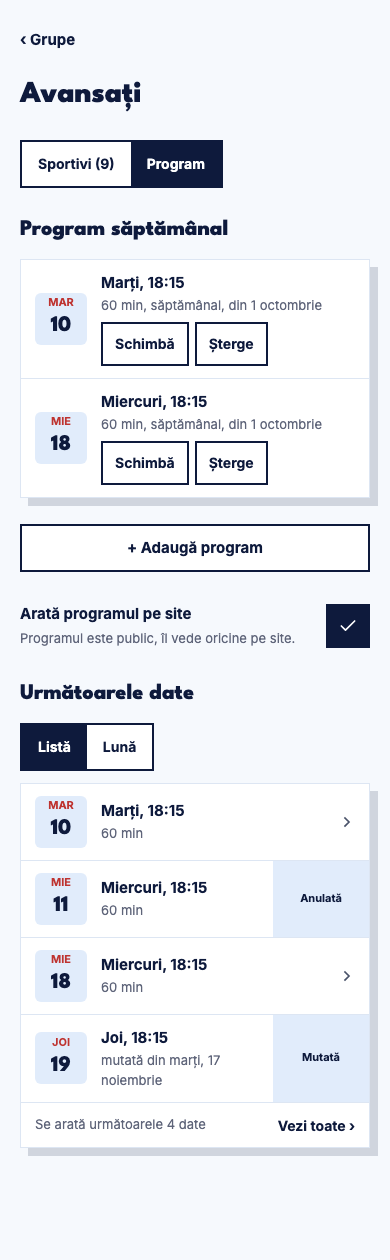
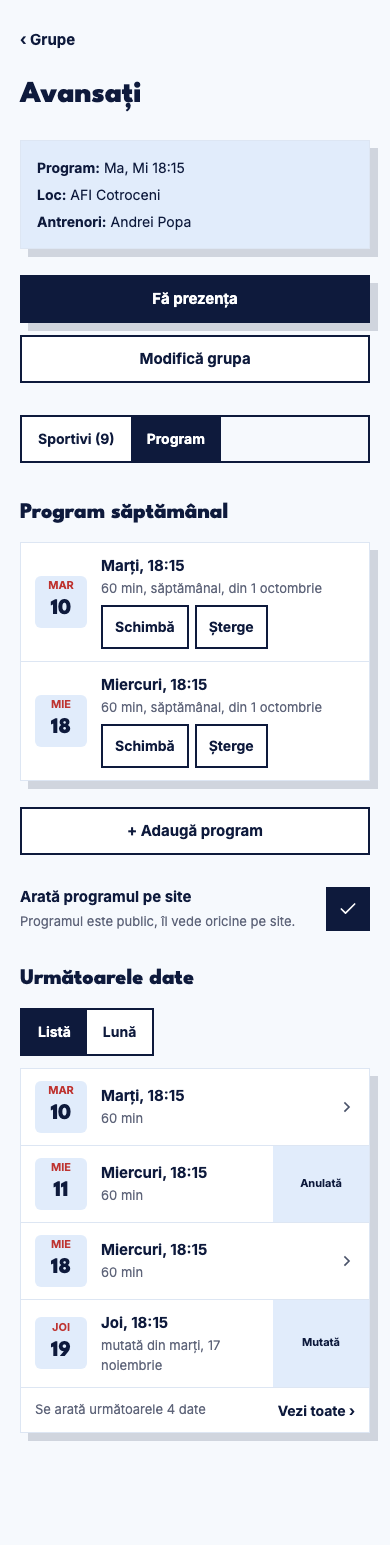
Phone: compact sticky top bar on coach pages; Grupă tabs stick under it and both tabs share one layout

Changed region(s): [[0.0308, 0.0, 0.9846, 0.9595], [0.7077, 0.5881, 0.7385, 0.619]]

diff --git a/tests/e2e/portal-phone-bar.spec.ts b/tests/e2e/portal-phone-bar.spec.ts
@@ -1,0 +1,73 @@
+import { expect, test } from "@playwright/test";
+import { COACH_BASE, loginAs, mockReset } from "./portal-helpers";
+
+test.use({ baseURL: COACH_BASE, viewport: { width: 390, height: 844 }, timezoneId: "Europe/Bucharest" });
+test.beforeEach(async() => { await mockReset(); });
+
+const bar = (page: import("@playwright/test").Page) => page.locator("[data-phone-bar]");
+
+test("phone: the compact bar shows with the back link and title once the big title scrolled away", async({ page }) => {
+  await loginAs(page);
+  await page.goto("/grupe/gavansati");
+  await expect(page.getByRole("heading", { level: 1, name: "Avansați" })).toBeVisible();
+  await expect(bar(page)).toHaveCSS("opacity", "0");
+  await page.evaluate(() => window.scrollTo(0, 400));
+  await expect(bar(page)).toHaveCSS("opacity", "1");
+  const box = (await bar(page).boundingBox())!;
+  expect(Math.round(box.y)).toBe(0);
+  await expect(bar(page).getByRole("link", { name: "‹ Grupe" })).toHaveAttribute("href", "/grupe");
+  const title = bar(page).locator("[data-phone-bar-title]");
+  await expect(title).toHaveText("Avansați");
+  await expect(title).toHaveCSS("font-size", "16px");
+  await expect(title).toHaveCSS("font-weight", "700");
+  await expect(bar(page)).toHaveCSS("background-color", "rgb(225, 236, 251)");
+  await page.evaluate(() => window.scrollTo(0, 0));
+  await expect(bar(page)).toHaveCSS("opacity", "0");
+  await page.evaluate(() => window.scrollTo(0, 400));
+  await page.screenshot({ path: process.env.PORTAL_SHOTS ? `${process.env.PORTAL_SHOTS}/built-phone-bar-390.png` : test.info().outputPath("bar-390.png") });
+});
+
+test("phone: Azi shows the brand in the bar instead of a back link", async({ page }) => {
+  await page.setViewportSize({ width: 390, height: 520 });
+  await loginAs(page);
+  await page.goto("/");
+  await expect(page.getByRole("heading", { name: "Antrenamente azi" })).toBeVisible();
+  await page.evaluate(() => window.scrollTo(0, 600));
+  await expect(bar(page)).toHaveCSS("opacity", "1");
+  await expect(bar(page).getByRole("link", { name: "Clubul Sportiv EduSport" })).toBeVisible();
+  await expect(bar(page).getByText("‹")).toHaveCount(0);
+  await expect(bar(page).locator("[data-phone-bar-title]")).toHaveText("Azi");
+});
+
+test("phone: the tabs stay under the bar while scrolled and sit at the same y on both tabs", async({ page }) => {
+  await loginAs(page);
+  await page.goto("/grupe/gavansati");
+  const tabs = page.locator("[data-group-tabs]");
+  const y1 = (await tabs.boundingBox())!.y;
+  await page.getByRole("button", { name: "Program" }).click();
+  await expect(page).toHaveURL(/tab=program/);
+  await expect(page.getByRole("heading", { name: "Program săptămânal" })).toBeVisible();
+  const y2 = (await tabs.boundingBox())!.y;
+  expect(Math.abs(y1 - y2)).toBeLessThan(1);
+  // Same block above the tabs on both tabs.
+  await expect(page.getByText(/^Antrenori/).first()).toBeVisible();
+  await expect(page.getByRole("link", { name: "Modifică grupa" })).toBeVisible();
+  await page.evaluate(() => window.scrollTo(0, 500));
+  await expect(bar(page)).toHaveCSS("opacity", "1");
+  const stuck = (await tabs.boundingBox())!;
+  expect(Math.round(stuck.y)).toBe(44);
+  await page.screenshot({ path: process.env.PORTAL_SHOTS ? `${process.env.PORTAL_SHOTS}/built-grupa-tabs-sticky-390.png` : test.info().outputPath("tabs-390.png") });
+});
+
+test("desktop: no compact bar, same two column group page on both tabs", async({ page }) => {
+  await page.setViewportSize({ width: 1280, height: 900 });
+  await loginAs(page);
+  await page.goto("/grupe/gavansati");
+  await expect(bar(page)).toBeHidden();
+  const a = (await page.locator("[data-group-tabs]").boundingBox())!;
+  await page.getByRole("button", { name: /^Program$/ }).click();
+  await expect(page.getByRole("heading", { name: "Program săptămânal" })).toBeVisible();
+  const b = (await page.locator("[data-group-tabs]").boundingBox())!;
+  expect(Math.abs(a.y - b.y)).toBeLessThan(1);
+  expect(Math.abs(a.x - b.x)).toBeLessThan(1);
+});

diff --git a/src/app/(antrenor)/antrenor/(app)/grupe/[id]/GroupView.tsx b/src/app/(antrenor)/antrenor/(app)/grupe/[id]/GroupView.tsx
@@ -59,34 +59,23 @@ function OwnGroup({ page }: { page: Extract<CoachGroupPage, { own: true }> }) {
   const members = page.members;
   const presence = page.todayKey ? `/prezenta?occurrence=${encodeURIComponent(page.todayKey)}&from=grupa` : null;
   const setTab = (t: Tab) => router.replace(t === "program" ? `${pathname}?tab=program` : pathname, { scroll: false });
+  // One page for both tabs: the info card and the buttons above, then the tabs, then only the tab body changes (no layout jump). On a phone the tabs stick under the compact top bar.
   const tabs = (
-    <Segmented<Tab>
-      label={GROUP.members}
-      options={[{ value: "members", label: GROUP.tabAthletes(members.length) }, { value: "program", label: GROUP.tabProgram }]}
-      value={tab}
-      onChange={setTab}
-    />
+    <div data-group-tabs className="sticky top-(--portal-tap) z-raised -mx-(--portal-page-x) bg-surface px-(--portal-page-x) py-2 portal:static portal:mx-0 portal:p-0">
+      <Segmented<Tab>
+        label={GROUP.members}
+        options={[{ value: "members", label: GROUP.tabAthletes(members.length) }, { value: "program", label: GROUP.tabProgram }]}
+        value={tab}
+        onChange={setTab}
+      />
+    </div>
   );
-  if (tab === "program") {
-    return (
-      <>
-        <PageHeader
-          back={BACK}
-          title={page.name}
-          actions={page.kind === "club" ? <Button variant="secondary" href={`${pathname}?tab=program&nou=1`}>{PROGRAM.add}</Button> : undefined}
-        />
-        <PageBody>
-          <ProgramTab key={rev} groupId={page.groupId} own tabs={tabs} addHref={`${pathname}?tab=program&nou=1`} />
-        </PageBody>
-        {params.get("nou") && page.kind === "club" && (
-          <NewTrainingPopup group={page.groupId} individual={false} onClose={() => router.replace(`${pathname}?tab=program`)} onDone={() => setRev((n) => n + 1)} />
-        )}
-      </>
-    );
-  }
+  const actions = tab === "program"
+    ? page.kind === "club" ? <Button variant="secondary" href={`${pathname}?tab=program&nou=1`}>{PROGRAM.add}</Button> : undefined
+    : presence ? <Button variant="secondary" href={presence}>{GROUP.doPresence}</Button> : undefined;
   return (
     <>
-      <PageHeader back={BACK} title={page.name} actions={presence ? <Button variant="secondary" href={presence}>{GROUP.doPresence}</Button> : undefined} />
+      <PageHeader back={BACK} title={page.name} actions={actions} />
       <PageBody>
         <Columns>
           <Column grow={1}>
@@ -98,19 +87,26 @@ function OwnGroup({ page }: { page: Extract<CoachGroupPage, { own: true }> }) {
           </Column>
           <Column grow={2}>
             {tabs}
-            <ListCard>
-              {members.map((m) => (
-                <ListRow
-                  key={m.athleteId}
-                  href={`/sportiv/${encodeURIComponent(m.athleteId)}?grupa=${encodeURIComponent(page.groupId)}`}
-                  title={m.name}
-                  sub={memberSub(m)}
-                />
-              ))}
-            </ListCard>
+            {tab === "program" ? (
+              <ProgramTab key={rev} groupId={page.groupId} own addHref={`${pathname}?tab=program&nou=1`} />
+            ) : (
+              <ListCard>
+                {members.map((m) => (
+                  <ListRow
+                    key={m.athleteId}
+                    href={`/sportiv/${encodeURIComponent(m.athleteId)}?grupa=${encodeURIComponent(page.groupId)}`}
+                    title={m.name}
+                    sub={memberSub(m)}
+                  />
+                ))}
+              </ListCard>
+            )}
           </Column>
         </Columns>
       </PageBody>
+      {tab === "program" && params.get("nou") && page.kind === "club" && (
+        <NewTrainingPopup group={page.groupId} individual={false} onClose={() => router.replace(`${pathname}?tab=program`)} onDone={() => setRev((n) => n + 1)} />
+      )}
     </>
   );
 }

diff --git a/src/app/(antrenor)/antrenor/(app)/grupe/[id]/_program/ProgramTab.tsx b/src/app/(antrenor)/antrenor/(app)/grupe/[id]/_program/ProgramTab.tsx
@@ -12,7 +12,6 @@ import { bucharestToday } from "../../../../_lib/today";
 import { useNoAccess, usePortal } from "../../../../_lib/use-portal";
 import { LoadError } from "@/app/_portal/ui/LoadError";
 import Link from "@/components/ui/link";
-import { Column, Columns } from "@/app/_portal/ui/PageBody";
 import { ListCard } from "@/app/_portal/ui/PortalCard";
 import { Section } from "@/app/_portal/ui/SectionHeading";
 import { Segmented } from "@/app/_portal/ui/Segmented";
@@ -38,8 +37,6 @@ const byStart = (a: Occurrence, b: Occurrence): number => `${a.date}${a.startTim
 type ProgramTabProps = {
   groupId: string;
   own: boolean;
-  /** The "Sportivi" / "Program" switch the group page owns; the tab places it at the top of its first column. */
-  tabs: React.ReactNode;
   /** Opens the "Antrenament nou" popup with this group preset. */
   addHref: string;
 };
@@ -48,7 +45,7 @@ type ProgramTabProps = {
 const NEXT_DATES = 4;
 
 /** The Program tab: weekly rules, "+ Adaugă program", the public switch, and the next dates as a list or a month. */
-export function ProgramTab({ groupId, own, tabs, addHref }: ProgramTabProps) {
+export function ProgramTab({ groupId, own, addHref }: ProgramTabProps) {
   const today = bucharestToday();
   const toast = useToast();
   const noAccess = useNoAccess();
@@ -116,9 +113,8 @@ export function ProgramTab({ groupId, own, tabs, addHref }: ProgramTabProps) {
 
   return (
     <>
-      <Columns>
-        <Column grow={1}>
-          {tabs}
+      <div className="flex flex-col gap-(--portal-section-gap)">
+        <div className="flex flex-col gap-(--portal-section-gap)">
           {data === null ? spinner : (
             <>
               {data.kind === "school" && <p className="text-body-sm text-secondary">{PROGRAM.schoolLocked}</p>}
@@ -133,14 +129,14 @@ export function ProgramTab({ groupId, own, tabs, addHref }: ProgramTabProps) {
               {own && data.kind === "club" && data.programPublic !== null && <PublicSwitch value={data.programPublic} busy={busy} onChange={(v) => void setPublic(v)} />}
             </>
           )}
-        </Column>
-        <Column grow={1}>
+        </div>
+        <div className="flex flex-col gap-(--portal-section-gap)">
           <Section title={PROGRAM.nextHeading}>
             <Segmented<View> label={GROUP.tabProgram} options={[{ value: "list", label: PROGRAM.list }, { value: "month", label: PROGRAM.month }]} value={view} onChange={setView} />
             {datesBody}
           </Section>
-        </Column>
-      </Columns>
+        </div>
+      </div>
       {open?.kind === "change" && <ChangeSheet rule={open.rule} rules={data?.rules ?? []} today={today} onClose={() => setOpen(null)} onDone={done} />}
       {open?.kind === "end" && <EndSheet rule={open.rule} rules={data?.rules ?? []} today={today} onClose={() => setOpen(null)} onDone={done} />}
       {open?.kind === "date" && <DateSheet occurrence={open.occurrence} today={today} onClose={() => setOpen(null)} onDone={done} />}

diff --git a/src/app/_portal/ui/PhoneBar.tsx b/src/app/_portal/ui/PhoneBar.tsx
@@ -1,0 +1,46 @@
+"use client";
+
+import { useEffect, useState } from "react";
+import { BrandBlock } from "@/app/_portal/ui/BrandBlock";
+import Link from "@/components/ui/link";
+import { cn } from "@/utils/cn";
+
+/**
+ * Phone only: a compact bar stuck to the top once the big page title has scrolled out of view.
+ * Back link (or the brand on the brand pages) on the left, the title in the middle. It is a zero height sticky box,
+ * so it takes no room while hidden; from the desktop breakpoint the page header is already sticky and this bar is gone.
+ */
+export function PhoneBar({ title, back, brand }: { title: string; back?: { href: string; label: string }; brand?: boolean }) {
+  const [shown, setShown] = useState(false);
+  useEffect(() => {
+    const h1 = document.querySelector("[data-page-header] h1");
+    if (!h1) return;
+    const io = new IntersectionObserver(([e]) => setShown(!e.isIntersecting && e.boundingClientRect.top < 0));
+    io.observe(h1);
+    return () => io.disconnect();
+  }, [title]);
+  return (
+    <div data-phone-bar-box className="sticky top-0 z-sticky h-0 portal:hidden">
+      <div
+        data-phone-bar
+        aria-hidden={!shown}
+        {...(shown ? {} : { inert: true })}
+        className={cn(
+          "absolute inset-x-0 top-0 flex h-(--portal-tap) items-center gap-3 border-b border-line-subtle bg-ice-light px-(--portal-page-x) transition-opacity duration-fast",
+          shown ? "opacity-100" : "pointer-events-none opacity-0",
+        )}
+      >
+        <span className="flex max-w-[40%] shrink-0 justify-start">
+          {back ? (
+            <Link href={back.href} tone="plain" className="inline-flex min-h-(--portal-tap) items-center text-(length:--portal-text-15) font-bold text-primary no-underline">
+              ‹ {back.label}
+            </Link>
+          ) : brand ? (
+            <BrandBlock href="/" />
+          ) : null}
+        </span>
+        <span data-phone-bar-title className="min-w-0 flex-1 truncate text-(length:--portal-text-16) font-bold">{title}</span>
+      </div>
+    </div>
+  );
+}

diff --git a/tests/e2e/portal-program-read.spec.ts b/tests/e2e/portal-program-read.spec.ts
@@ -70,12 +70,10 @@ for (const size of SIZES) {
       if (wide) {
         const rule = (await page.getByRole("heading", { name: "Program săptămânal" }).boundingBox())!;
         const next = (await page.getByRole("heading", { name: "Următoarele date" }).boundingBox())!;
-        expect(next.x).toBeGreaterThan(rule.x);
-        // Fixed 3:2 grid: the weekly program column is wider than the dates column.
-        const mainW = (await page.getByRole("heading", { name: "Program săptămânal" }).locator("xpath=../..").boundingBox())!.width;
-        const sideW = (await dates.boundingBox())!.width;
-        expect(Math.round((mainW / sideW) * 10)).toBeGreaterThanOrEqual(13);
-        expect(Math.round((mainW / sideW) * 10)).toBeLessThanOrEqual(17);
+        // One page for both tabs (user 2026-11-10): the program stacks in the main column, the next dates below the weekly rules.
+        expect(next.y).toBeGreaterThan(rule.y);
+        const infoCard = (await page.getByText(/^Antrenori/).first().boundingBox())!;
+        expect(infoCard.x).toBeGreaterThan(rule.x);
       }
       await shot(page, info, "grupa-program");
     });

diff --git a/src/app/_portal/ui/PageHeader.tsx b/src/app/_portal/ui/PageHeader.tsx
@@ -1,5 +1,6 @@
 import Link from "@/components/ui/link";
 import { BrandBlock } from "@/app/_portal/ui/BrandBlock";
+import { PhoneBar } from "@/app/_portal/ui/PhoneBar";
 
 type PageHeaderProps = {
   title: string;
@@ -17,6 +18,8 @@ type PageHeaderProps = {
  */
 export function PageHeader({ title, back, kicker, sub, brand, aside, actions }: PageHeaderProps) {
   return (
+    <>
+    <PhoneBar title={title} back={back} brand={brand} />
     <header data-page-header className="portal:sticky portal:top-0 portal:z-sticky portal:border-b portal:border-line-subtle portal:bg-ice-light">
       <div className="mx-auto flex w-full max-w-(--portal-container) flex-col gap-(--portal-head-gap) px-(--portal-page-x) pt-(--portal-head-pt) pb-(--portal-head-pb) portal:gap-2 portal:py-(--portal-band-pad-y)">
         {back ? (
@@ -50,5 +53,6 @@ export function PageHeader({ title, back, kicker, sub, brand, aside, actions }: 
         </div>
       </div>
     </header>
+    </>
   );
 }

diff --git a/docs/portal/DECISIONS.md b/docs/portal/DECISIONS.md
@@ -308,3 +308,5 @@ Companion screens: `edusport_backend/.superpowers/brainstorm/43332-1790846771/co
 - 2026-11-10 (user): Azi desktop puts the dark summary card and 'Antrenamente fără prezență' in the left column (2 parts) and today's list on the right (3 parts); header actions take the height of the now tile.
 - 2026-11-10 (user): a class held without saved attendance is called 'prezență necompletată': Azi section 'Prezență de completat', week row 'Prezență necompletată: <n>', row sub lines and Istoric use the same words. Azi desktop left column approved: summary card, 'Următorul antrenament', 'Săptămâna aceasta', 'Prezență de completat'.
 - 2026-11-10 (user): every list that can grow is capped. Azi lists show at most 5 rows, then "Vezi toate (n) ›" ("Prezență de completat" opens Istoric, "Antrenamente azi" opens the Calendar on today). Istoric and Concursuri show 20 rows, then a secondary button "Arată mai multe" that adds 20 more (client side, keyboard focus moves to the first new row). "Prezență de completat" holds only classes of the last 7 days the coach can still fill (same window as the presence, `canCoachCorrect`); older ones go to the admin. Both Azi heading rows share one min height so the tops line up.
+- 2026-11-10 (user): Azi now tile is live: the time ticks on every minute (next tick at the next :00 seconds, Europe/Bucharest, paused while the tab is hidden and resynced on visibilitychange), the date rolls over at midnight and coach/today is fetched again; the same live time greys today's rows once their start has passed; the aria-label follows.
+- 2026-11-10 (user): phone, every coach page: a compact top bar sticks to the top once the big page title has scrolled out of view (ice background, bottom line; "‹ back label" left, title 16px bold in one line with ellipsis; Azi and the other brand pages show the brand row instead of back). The bottom nav stays fixed. Desktop keeps its sticky header band and has no compact bar. Grupă: the info card (Program, Loc, Antrenori), "Fă prezența" (when there is a class today) and "Modifică grupa" sit above the tabs on both tabs, the tabs stick under the compact bar on phone, and switching tabs changes only what is below them (no layout jump). The Program tab body is one column under the tabs on desktop too (weekly program, then the next dates), decided by Claude to keep both tabs on one page layout.
